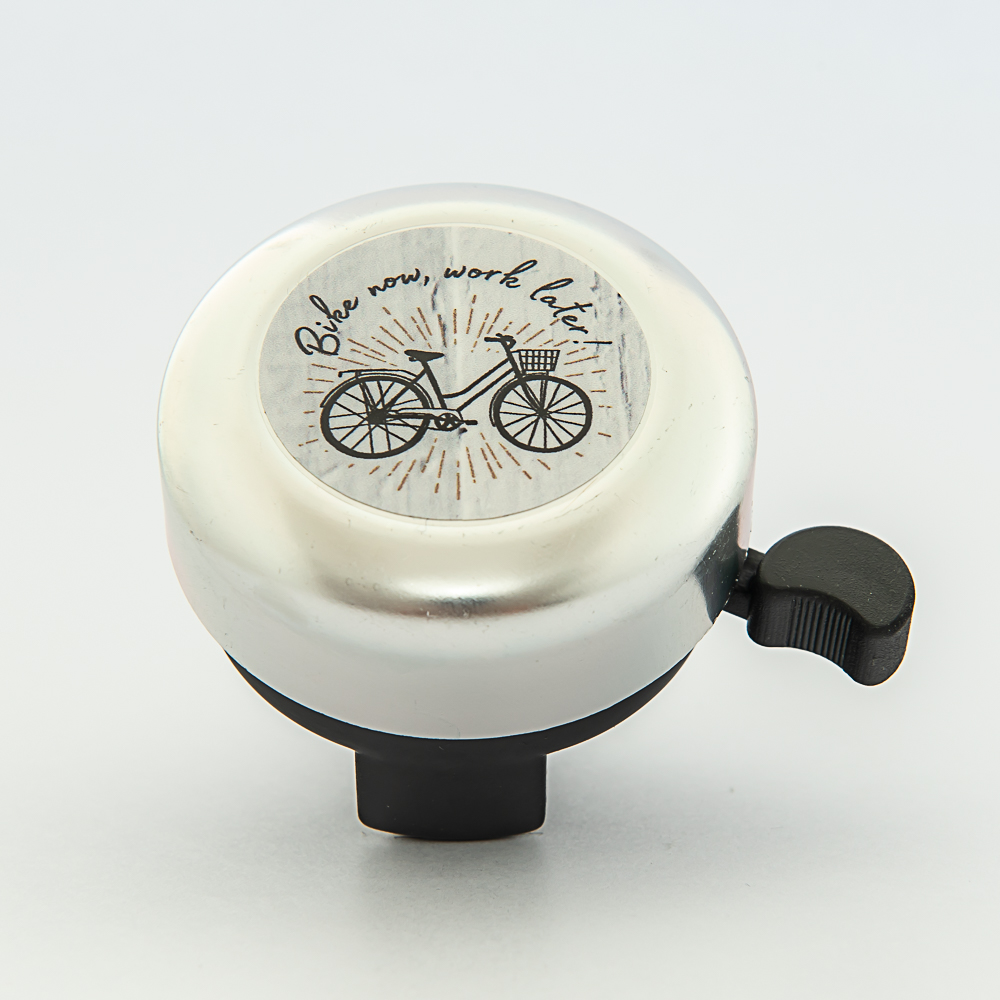
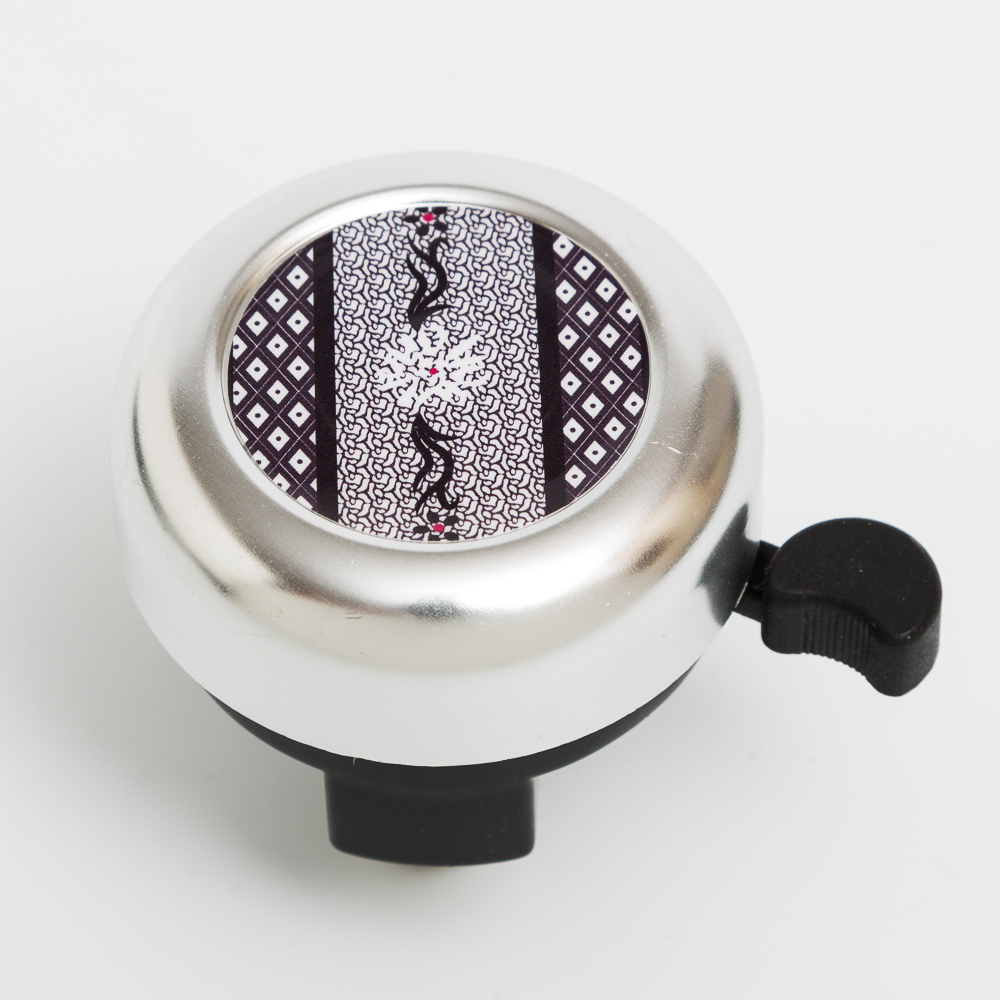
Neue Glocken und Überzüge und fehlende Glocken ausgetauscht

diff --git a/app/scripts/src/sattelliste.js b/app/scripts/src/sattelliste.js
@@ -13,6 +13,7 @@ var sattel = new function() {
         // Liste aller Sattelbilder. Die Bilder müssen im Namensformat 'Sattelbezug-038.jpg' vorliegen.
         { "Sattel": "002", "Glocke": "002", "Bem": "1 rosa" },
         { "Sattel": "006", "Glocke": "006", "Bem": "1 rosa" },
+        { "Sattel": "092", "Glocke": "092", "Bem": "1 rosa" },
         { "Sattel": "007", "Glocke": "086", "Bem": "1 rosa" },
         { "Sattel": "043", "Glocke": "043", "Bem": "1 rosa" },
         { "Sattel": "086", "Glocke": "086", "Bem": "1 rosa" },
@@ -26,16 +27,21 @@ var sattel = new function() {
         { "Sattel": "009", "Glocke": "006", "Bem": "2 rot" },
         { "Sattel": "012", "Glocke": "006", "Bem": "2 rot" },
         { "Sattel": "013", "Glocke": "013", "Bem": "2 rot" },
+        { "Sattel": "097", "Glocke": "097", "Bem": "2 rot" },
         // { "Sattel": "014", "Glocke": "006", "Bem": "2 rot" },
+        { "Sattel": "091", "Glocke": "042", "Bem": "2 rot" },
         { "Sattel": "038", "Glocke": "038", "Bem": "2 rot" },
         { "Sattel": "040", "Glocke": "040", "Bem": "2 rot" },
         { "Sattel": "041", "Glocke": "041", "Bem": "2 rot" },
         { "Sattel": "079", "Glocke": "006", "Bem": "2 rot" },
         { "Sattel": "085", "Glocke": "063", "Bem": "2 rot" },
+        { "Sattel": "096", "Glocke": "096", "Bem": "3 grün" },
+        { "Sattel": "090", "Glocke": "060", "Bem": "3 grün" },
         { "Sattel": "084", "Glocke": "062", "Bem": "3 grün" },
         { "Sattel": "059", "Glocke": "059", "Bem": "3 grün" },
         { "Sattel": "015", "Glocke": "015", "Bem": "3 grün" },
         { "Sattel": "016", "Glocke": "016", "Bem": "3 grün" },
+        { "Sattel": "094", "Glocke": "094", "Bem": "3 grün" },
         { "Sattel": "017", "Glocke": "006", "Bem": "3 grün" },
         { "Sattel": "018", "Glocke": "069", "Bem": "3 grün" },
         { "Sattel": "054", "Glocke": "054", "Bem": "3 grün" },
@@ -43,7 +49,7 @@ var sattel = new function() {
         { "Sattel": "080", "Glocke": "006", "Bem": "3 grün" },
         { "Sattel": "081", "Glocke": "068", "Bem": "3 grün" },
         { "Sattel": "082", "Glocke": "068", "Bem": "3 grün" },
-        { "Sattel": "039", "Glocke": "006", "Bem": "3 grün" },
+        { "Sattel": "039", "Glocke": "026", "Bem": "3 grün" },
         // { "Sattel": "046", "Glocke": "006", "Bem": "3 grün" },
         { "Sattel": "023", "Glocke": "023", "Bem": "4 blau" },
         { "Sattel": "025", "Glocke": "006", "Bem": "4 blau" },
@@ -52,14 +58,15 @@ var sattel = new function() {
         // { "Sattel": "028", "Glocke": "006", "Bem": "4 blau" },
         { "Sattel": "029", "Glocke": "029", "Bem": "4 blau" },
         { "Sattel": "030", "Glocke": "030", "Bem": "4 blau" },
-        { "Sattel": "037", "Glocke": "006", "Bem": "4 blau" },
+        { "Sattel": "037", "Glocke": "037", "Bem": "4 blau" },
         { "Sattel": "044", "Glocke": "044", "Bem": "1 blau" },
         { "Sattel": "048", "Glocke": "006", "Bem": "4 blau" },
         { "Sattel": "050", "Glocke": "006", "Bem": "4 blau" },
-        { "Sattel": "055", "Glocke": "006", "Bem": "4 blau" },
+        { "Sattel": "055", "Glocke": "026", "Bem": "4 blau" },
         { "Sattel": "056", "Glocke": "006", "Bem": "4 blau" },
         { "Sattel": "057", "Glocke": "006", "Bem": "4 blau" },
-        { "Sattel": "061", "Glocke": "006", "Bem": "4 blau" },
+        { "Sattel": "061", "Glocke": "026", "Bem": "4 blau" },
+        { "Sattel": "089", "Glocke": "089", "Bem": "4 blau" },
         { "Sattel": "032", "Glocke": "032", "Bem": "5 andere" },
         { "Sattel": "033", "Glocke": "033", "Bem": "5 andere" },
         { "Sattel": "034", "Glocke": "006", "Bem": "5 andere" },
@@ -69,7 +76,8 @@ var sattel = new function() {
         { "Sattel": "062", "Glocke": "006", "Bem": "5 andere" },
         { "Sattel": "052", "Glocke": "006", "Bem": "5 andere" },
         { "Sattel": "042", "Glocke": "006", "Bem": "5 andere" },
-        { "Sattel": "074", "Glocke": "006", "Bem": "5 andere" },
+        { "Sattel": "074", "Glocke": "074", "Bem": "5 andere" },
+        { "Sattel": "093", "Glocke": "093", "Bem": "5 andere" },
         { "Sattel": "076", "Glocke": "006", "Bem": "5 andere" },
     ];
 
